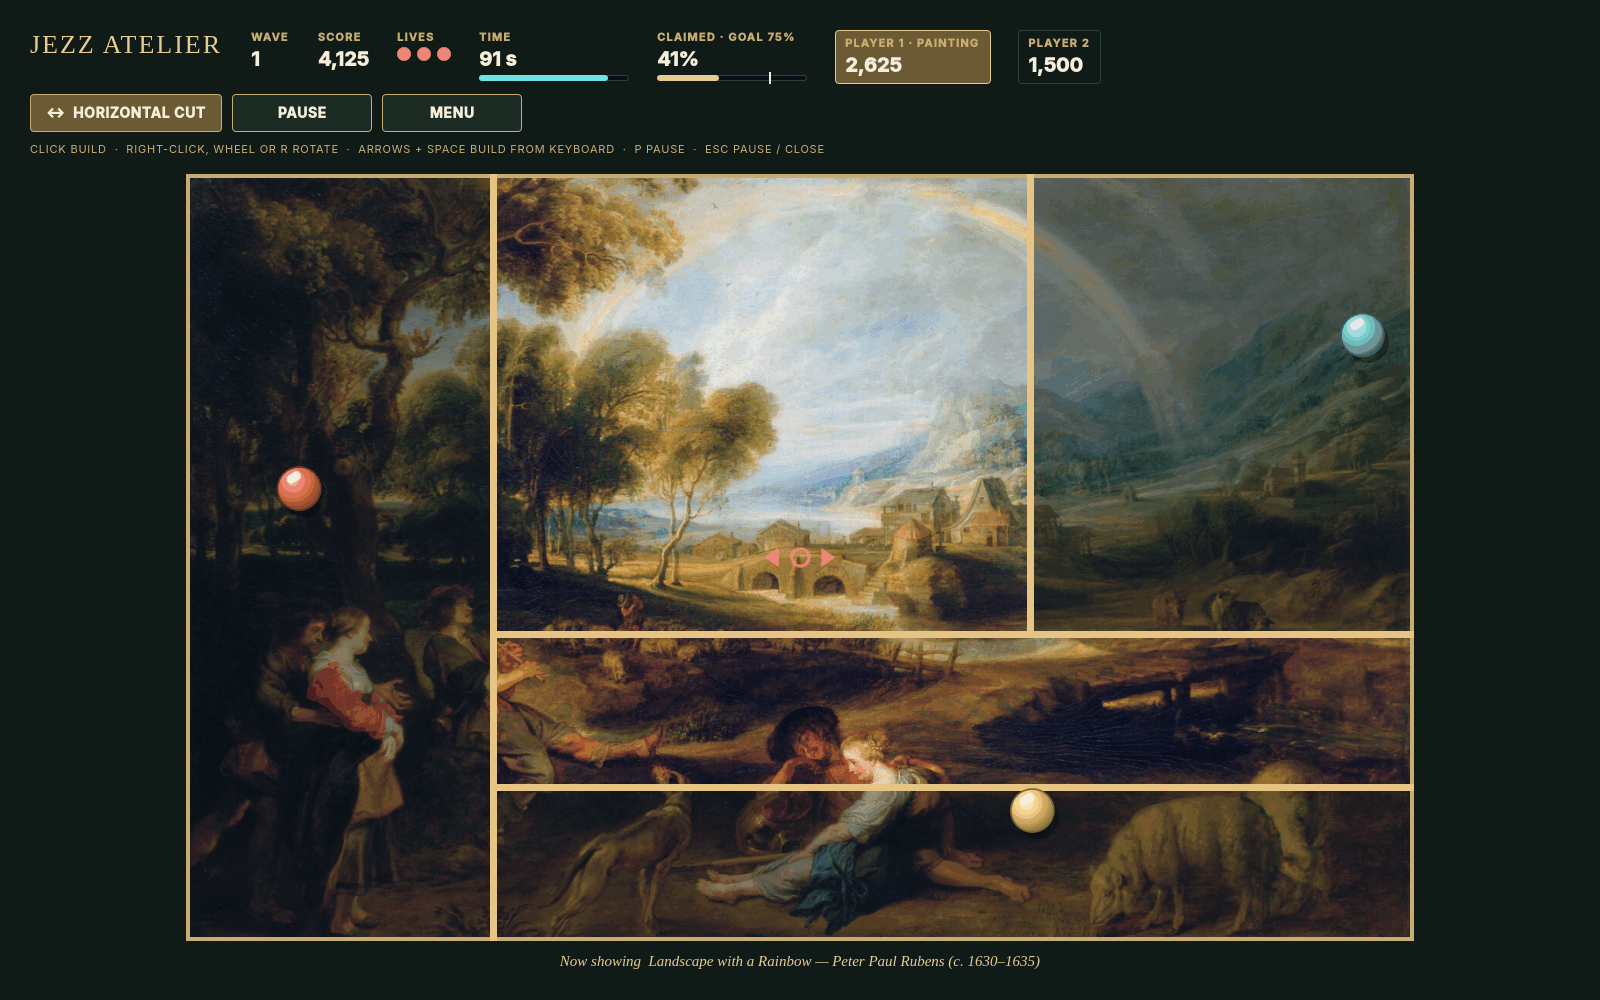
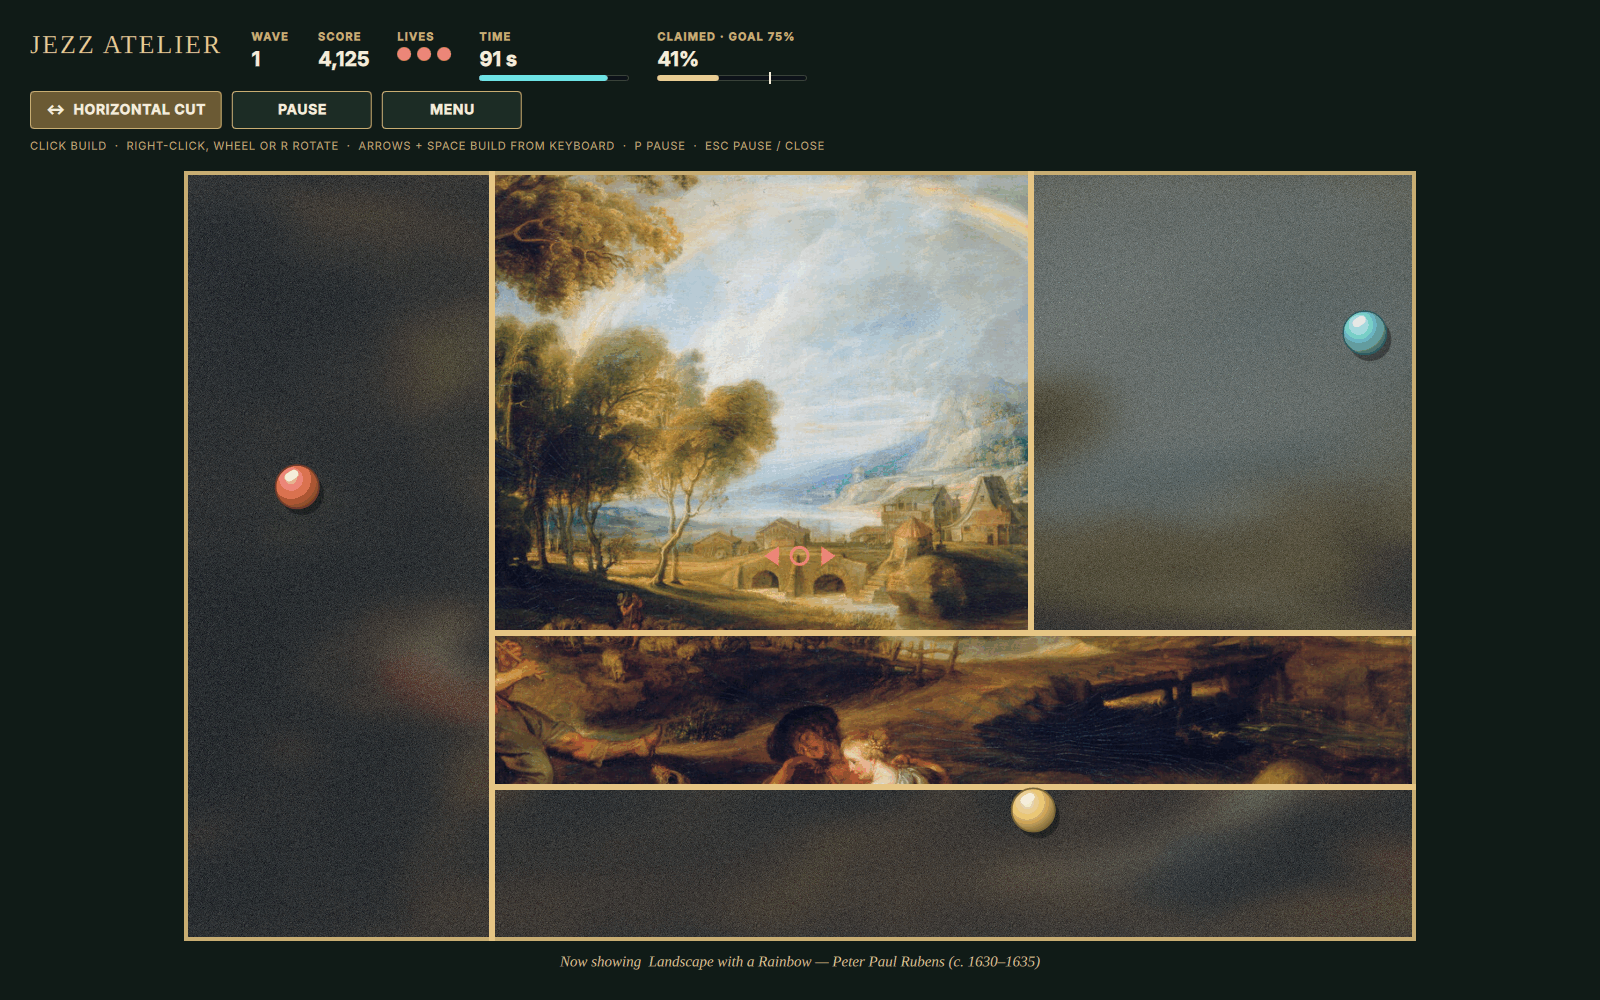
feat(board): blur the painting and reveal claimed regions slowly
The unclaimed field now shows the painting loaded tiny, blurred with
MultiEffect, and covered in grain. Each claimed region fades the sharp
original in over 2.6 seconds, tracked by region id so a later split does
not restart a reveal in progress; reduced motion reveals instantly. The
unblurred low-resolution image stays underneath as a fallback for the
software renderer, and the preview renderer now uses OpenGL so the blur
appears in preview.png.

diff --git a/components/GameBoard.qml b/components/GameBoard.qml
@@ -1,5 +1,6 @@
 pragma ComponentBehavior: Bound
 import QtQuick
+import QtQuick.Effects
 import "Theme.js" as Theme
 import "../engine/Layout.js" as Layout
 import "../engine/Collection.js" as Collection
@@ -20,11 +21,16 @@ Item {
   property real cursorX: 8
   property real cursorY: 5
   property real wheelTravel: 0
+  // Claimed regions bring the sharp painting into focus over this many milliseconds.
+  property int revealDuration: 2600
+  // When each claimed region of the current field started its reveal, by region id.
+  // Keyed by id, not delegate, because a split shifts regions between delegates.
+  property var revealStarts: ({})
 
   readonly property var artwork: Collection.artworkForWave(snapshot ? snapshot.wave : 1, randomArtwork, artworkId)
   readonly property url artworkSource: Qt.resolvedUrl("../" + artwork.file)
-  // Unclaimed field stays veiled so claiming visibly uncovers the painting;
-  // brightness 100 keeps a light veil, 45 a heavy one.
+  // Unclaimed field shows a blurred, grainy, veiled painting so claiming visibly
+  // uncovers it; brightness 100 keeps a light veil, 45 a heavy one.
   readonly property real veilOpacity: 0.3 + (100 - brightness) / 55 * 0.45
   readonly property var box: Layout.fit(width, height)
   readonly property real unit: box.width / 16
@@ -36,6 +42,9 @@ Item {
   readonly property int claimedCount: snapshot
     ? snapshot.regions.filter(function(region) { return region.claimed }).length
     : 0
+
+  // Every field starts with nothing claimed, and region ids restart with each field.
+  onClaimedCountChanged: if (claimedCount === 0) revealStarts = ({})
 
   signal hovered(real x, real y)
   signal placed(real x, real y)
@@ -71,6 +80,27 @@ Item {
     rotated()
   }
 
+  // Reveal progress (0 to 1) a claimed region should show now; -1 when unclaimed.
+  function revealProgress(region) {
+    if (!region.claimed) return -1
+    if (reducedMotion) return 1
+    var started = revealStarts[region.id]
+    if (started === undefined) {
+      started = Date.now()
+      revealStarts[region.id] = started
+    }
+    return Math.min(1, (Date.now() - started) / Math.max(1, revealDuration))
+  }
+
+  // Progress of the region with this id, or -1 when it is not on the board.
+  function revealOf(regionId) {
+    for (var i = 0; i < regionViews.count; i++) {
+      var view = regionViews.itemAt(i) as RegionReveal
+      if (view && view.region.id === regionId) return view.progress
+    }
+    return -1
+  }
+
   function flashLoss() {
     if (!reducedMotion) lossFlash.restart()
   }
@@ -82,13 +112,35 @@ Item {
     height: root.box.height
     clip: true
 
+    // Loaded tiny and then blurred: cheap, and no detail survives to spoil the reveal.
+    // It stays visible under the blur, so the software renderer, which cannot run
+    // MultiEffect, still shows a soft painting instead of an empty field.
     Image {
+      id: veiledArtwork
       anchors.fill: parent
       source: root.artworkSource
       fillMode: Image.PreserveAspectCrop
       asynchronous: true
-      sourceSize.width: Math.ceil(parent.width)
-      sourceSize.height: Math.ceil(parent.height)
+      smooth: true
+      sourceSize.width: 96
+      sourceSize.height: 60
+    }
+
+    MultiEffect {
+      anchors.fill: parent
+      source: veiledArtwork
+      blurEnabled: true
+      blur: 1
+      blurMax: 48
+    }
+
+    // Grain regenerated with:
+    // magick -seed 7 -size 256x256 xc:gray50 -attenuate 1.6 +noise Gaussian -colorspace Gray -depth 8 grain.png
+    Image {
+      anchors.fill: parent
+      source: "grain.png"
+      fillMode: Image.Tile
+      opacity: 0.4
     }
 
     Rectangle {
@@ -99,33 +151,18 @@ Item {
   }
 
   Repeater {
+    id: regionViews
     model: root.snapshot ? root.snapshot.regions.length : 0
 
-    Item {
-      id: regionView
-
+    RegionReveal {
       required property int index
-      readonly property var region: root.snapshot.regions[index] || root.emptyRegion
-      readonly property var rect: root.regionRect(region)
 
-      visible: region.claimed
-      x: rect.x
-      y: rect.y
-      width: rect.width
-      height: rect.height
-      clip: true
-
-      Image {
-        x: root.box.x - regionView.x
-        y: root.box.y - regionView.y
-        width: root.box.width
-        height: root.box.height
-        source: root.artworkSource
-        fillMode: Image.PreserveAspectCrop
-        asynchronous: true
-        sourceSize.width: Math.ceil(root.box.width)
-        sourceSize.height: Math.ceil(root.box.height)
-      }
+      region: root.snapshot.regions[index] || root.emptyRegion
+      rect: root.regionRect(region)
+      box: root.box
+      source: root.artworkSource
+      duration: root.revealDuration
+      progressFor: root.revealProgress
     }
   }
 

diff --git a/tests/tst_view.qml b/tests/tst_view.qml
@@ -209,4 +209,58 @@ TestCase {
   }
 
   Component { id: signalSpyComponent; SignalSpy {} }
+
+  function field(regions) {
+    return { wave: 1, walls: [], spheres: [], growingWall: null, regions: regions }
+  }
+
+  function region(id, minX, maxX, claimed) {
+    return { id: id, minX: minX, maxX: maxX, minY: 0, maxY: 10, claimed: claimed }
+  }
+
+  function test_claimedRegionRevealsSlowly() {
+    var board = createTemporaryObject(boardComponent, this)
+    verify(board.revealDuration >= 2000)
+    board.revealDuration = 300
+    board.snapshot = field([region(1, 0, 16, false)])
+    compare(board.revealOf(1), 0)
+
+    board.snapshot = field([region(2, 0, 8, true), region(3, 8, 16, false)])
+    verify(board.revealOf(2) < 0.5)
+    compare(board.revealOf(3), 0)
+    tryVerify(function() { return board.revealOf(2) === 1 }, 2000)
+  }
+
+  function test_revealIsInstantWithReducedMotion() {
+    var board = createTemporaryObject(boardComponent, this, { reducedMotion: true })
+    board.snapshot = field([region(1, 0, 16, false)])
+    board.snapshot = field([region(2, 0, 8, true), region(3, 8, 16, false)])
+    compare(board.revealOf(2), 1)
+  }
+
+  function test_revealSurvivesRegionReordering() {
+    var board = createTemporaryObject(boardComponent, this)
+    board.revealDuration = 300
+    board.snapshot = field([region(1, 0, 16, false)])
+    board.snapshot = field([region(2, 0, 8, true), region(3, 8, 16, false)])
+    tryVerify(function() { return board.revealOf(2) === 1 }, 2000)
+
+    // A later split inserts regions before the revealed one; it must not fade in again.
+    board.snapshot = field([region(4, 8, 12, true), region(5, 12, 16, false), region(2, 0, 8, true)])
+    compare(board.revealOf(2), 1)
+    verify(board.revealOf(4) < 0.5)
+  }
+
+  function test_newFieldStartsVeiledAgain() {
+    var board = createTemporaryObject(boardComponent, this, { reducedMotion: true })
+    board.snapshot = field([region(1, 0, 16, false)])
+    board.snapshot = field([region(2, 0, 8, true), region(3, 8, 16, false)])
+    compare(board.revealOf(2), 1)
+
+    board.reducedMotion = false
+    board.revealDuration = 300
+    board.snapshot = field([region(1, 0, 16, false)])
+    board.snapshot = field([region(2, 0, 8, true), region(3, 8, 16, false)])
+    verify(board.revealOf(2) < 0.5)
+  }
 }

diff --git a/components/RegionReveal.qml b/components/RegionReveal.qml
@@ -1,0 +1,62 @@
+import QtQuick
+
+// One claimed region of the board: the sharp painting, clipped to the region, fading in
+// over the blurred field. Board delegates are reused across regions, so the fade only
+// restarts when this delegate starts showing another region or its region is claimed;
+// the per-frame snapshot swap alone changes nothing.
+Item {
+  id: root
+
+  property var region: ({ id: 0, claimed: false })
+  property var rect: ({ x: 0, y: 0, width: 0, height: 0 })
+  property var box: ({ x: 0, y: 0, width: 0, height: 0 })
+  property url source
+  property int duration: 2600
+  // function(region) -> progress to show now (0 to 1), or -1 when unclaimed.
+  property var progressFor: null
+  property int shownId: 0
+  property bool shownClaimed: false
+  property real progress: 0
+
+  function sync() {
+    if (region.id === shownId && region.claimed === shownClaimed) return
+    shownId = region.id
+    shownClaimed = region.claimed
+    reveal.stop()
+    progress = progressFor ? Math.max(0, progressFor(region)) : (region.claimed ? 1 : 0)
+    if (region.claimed && progress < 1) {
+      reveal.duration = (1 - progress) * duration
+      reveal.start()
+    }
+  }
+
+  onRegionChanged: sync()
+  Component.onCompleted: sync()
+
+  visible: region.claimed && progress > 0
+  opacity: progress * progress * (3 - 2 * progress)
+  x: rect.x
+  y: rect.y
+  width: rect.width
+  height: rect.height
+  clip: true
+
+  Image {
+    x: root.box.x - root.x
+    y: root.box.y - root.y
+    width: root.box.width
+    height: root.box.height
+    source: root.source
+    fillMode: Image.PreserveAspectCrop
+    asynchronous: true
+    sourceSize.width: Math.ceil(root.box.width)
+    sourceSize.height: Math.ceil(root.box.height)
+  }
+
+  NumberAnimation {
+    id: reveal
+    target: root
+    property: "progress"
+    to: 1
+  }
+}

diff --git a/scripts/render-preview.qml b/scripts/render-preview.qml
@@ -40,7 +40,7 @@ Window {
 
   Timer {
     id: captureDelay
-    interval: 1200
+    interval: 3400 // Longer than the board reveal, so claimed regions are sharp.
     onTriggered: window.capture()
   }
 }

diff --git a/README.md b/README.md
@@ -7,6 +7,7 @@ Jezz Atelier is a native, offline JezzBall-inspired kinetic gallery for the Omar
 ## Features
 
 - Single-player play in Relaxed, Classic, and Expert modes.
+- The painting starts hidden under heavy blur and grain; each space you close slowly comes into focus.
 - Vertical and horizontal cuts, with an on-board cursor that shows the current orientation.
 - Lacquered spheres that bounce off the walls and off each other, with impact sounds.
 - Ten paintings, ten music tracks, original sound effects, gallery browsing, brightness and volume settings.
@@ -56,7 +57,7 @@ The shell IPC contract accepts `summon <id> <payloadJson>`, `toggle <id> <payloa
 
 ## How to play
 
-Place a horizontal or vertical wall inside open space while avoiding the moving spheres, which bounce off the walls and off each other. Both ends grow outward; if a sphere hits the unfinished wall, you lose a life. When the wall completes, any resulting region without a sphere is claimed, revealing the painting and earning points. Reach the coverage target before time or lives run out to advance to the next wave; remaining time and lives earn a bonus.
+Place a horizontal or vertical wall inside open space while avoiding the moving spheres, which bounce off the walls and off each other. Both ends grow outward; if a sphere hits the unfinished wall, you lose a life. When the wall completes, any resulting region without a sphere is claimed: that part of the painting comes into focus and you earn points. Reach the coverage target before time or lives run out to advance to the next wave; remaining time and lives earn a bonus.
 
 ## Update, disable, remove
 

diff --git a/CHANGELOG.md b/CHANGELOG.md
@@ -7,6 +7,7 @@ All notable changes to this project will be documented here. Format: [Keep a Cha
 ### Added
 
 - Native fullscreen Omarchy overlay with single-player play, three difficulty profiles, keyboard/pointer input, pause, and a layout that adapts to ultrawide screens.
+- A blurred, grainy painting whose claimed regions fade into focus over about 2.6 seconds (instant with reduced motion).
 - Vertical and horizontal cuts with an oriented cursor, a cut toggle button, mouse-wheel and right-click rotation.
 - Lacquered spheres with elastic sphere-to-sphere collisions and speed-scaled impact sounds.
 - HUD with time and coverage gauges, life dots, and the active player; toasts for captures, broken walls, turn changes, and refused placements.
